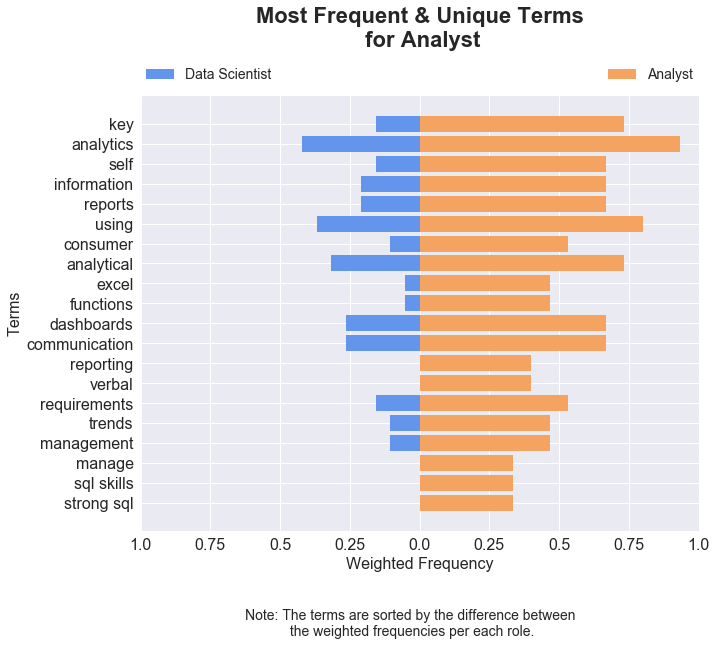
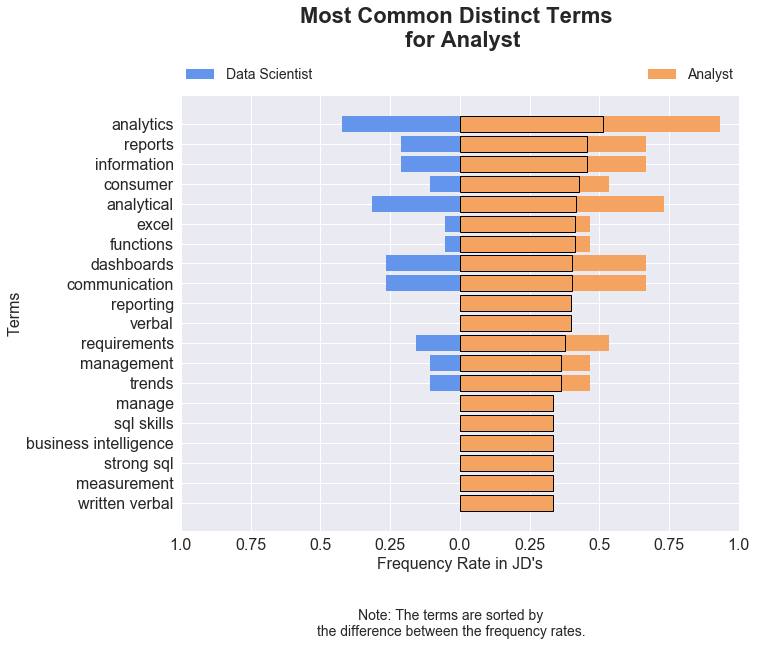
Create dynamic empahsis on tornado chart for the diff in frequency rates

diff --git a/jd_classification_model.py b/jd_classification_model.py
@@ -463,7 +463,9 @@ token_df_clean = token_df.copy()
 
 ## Remove terms that aren't insightful 
 term_cleanup = ['s', 'work', 'working',
-                'years', 'experience', 'data', 'team'
+                'years', 'experience', 'data', 'team',
+                'key', 'self', 'using', # Terms to omit for Analyst chart
+                'looking' # Terms to omit for Data Scientist chart
                 ]
 
 for term in term_cleanup:
@@ -473,7 +475,7 @@ for term in term_cleanup:
 
 # ------------   Specify Chart Sorting and Labels ------------ ####
 # Choose which title to sort for
-sort_for_title = secondary_title #both_titles #primary_title, secondary_title
+sort_for_title = secondary_title #primary_title #both_titles #primary_title, secondary_title
 
 ## Specific to "Both Titles" sort chart
 #title_string = "Most Frequent Terms\n for {}".format(sort_for_title)
@@ -481,7 +483,7 @@ sort_for_title = secondary_title #both_titles #primary_title, secondary_title
 
 ## Specific to Single Title sort chart
 title_string = "Most Common Distinct Terms \n for {}".format(sort_for_title)
-subtitle_string = "Note: The terms are sorted by the difference between\n the frequencies rates per each role."
+subtitle_string = "Note: The terms are sorted by\nthe difference between the frequency rates."
 
 
 
@@ -495,11 +497,13 @@ if sort_for_title == both_titles:   ## Sort for popularity for BOTH
     x_axis_max = 1.1
 elif sort_for_title == primary_title: 
     topT_df = token_df_clean.sort_values('wf_divergence', ascending = True).tail(20).reset_index()
+    outline_chart_color_emphasis = 'cornflowerblue'
 else:
     topT_df = token_df_clean.sort_values('wf_divergence', ascending = True).head(20)
     # Re-order results and reset index
     topT_df = topT_df.sort_values('wf_divergence', ascending = False).reset_index()
-    
+    outline_chart_color_emphasis = 'sandybrown'
+
 
 # Set up axis variables
 bars = topT_df['token'].tolist()
@@ -513,8 +517,8 @@ plt.figure(figsize=(10,8))
 plt.barh(topT_df.index.values, -topT_df['primary_wf'], color='cornflowerblue' , label = primary_title)
 plt.barh(topT_df.index.values, topT_df['secondary_wf'], color='sandybrown', label = secondary_title )
 
-plt.barh(topT_df.index.values, -topT_df['wf_divergence'], color='sandybrown', edgecolor="black", lw=1)
-
+# Data Scientist or Analyst Diff
+plt.barh(topT_df.index.values, -topT_df['wf_divergence'], color=outline_chart_color_emphasis, edgecolor="black", lw=1) 
 
 plt.yticks(pos, bars, fontsize = 16)
 plt.xlim(-x_axis_max,x_axis_max)
